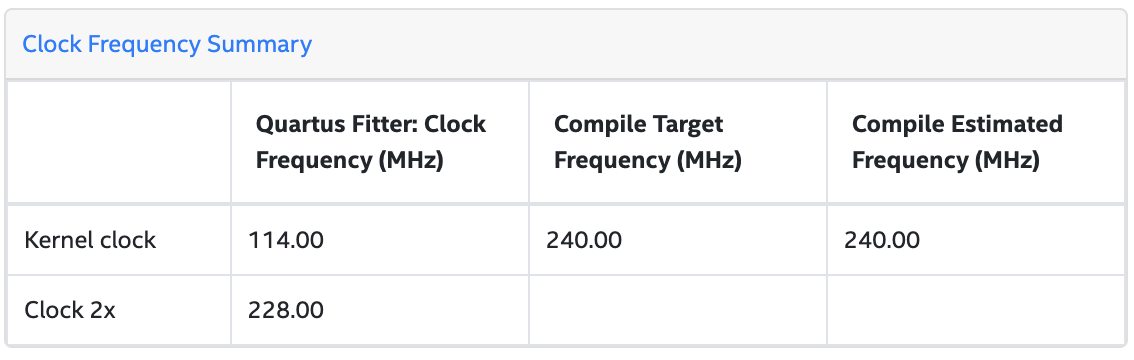
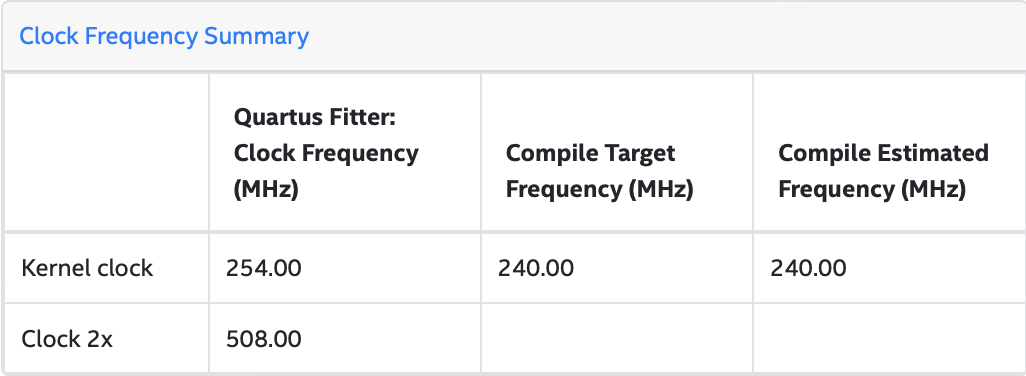
updated benchmark results of blake3 on Intel Arria 10 board, replaced on-chip BRAMs with much faster and stall-free FPGA registers

Changed region(s): [[0.0, 0.1833, 1.0, 1.0], [0.0, 0.0, 1.0, 0.0306], [0.0, 0.0611, 0.3119, 0.1528]]

diff --git a/README.md b/README.md
@@ -195,25 +195,25 @@ running on pac_a10 : Intel PAC Platform (pac_ee00000)
 
 Benchmarking BLAKE3 FPGA implementation
 
-              input size		  execution time		host-to-device tx time		device-to-host tx time
-                   1 MB		           1.127820 ms		         399.874625 us		          88.873000 us
-                   2 MB		           2.205309 ms		         669.153625 us		          84.875875 us
-                   4 MB		           4.353167 ms		           1.004857 ms		          85.069125 us
-                   8 MB		           8.643984 ms		           1.633951 ms		          76.423375 us
-                  16 MB		          17.219312 ms		           2.997660 ms		          79.418125 us
-                  32 MB		          34.367224 ms		           6.250827 ms		          85.557125 us
-                  64 MB		          68.657510 ms		          12.520800 ms		          85.347125 us
-                 128 MB		         137.233338 ms		          23.457125 ms		          89.994000 us
-                 256 MB		         274.380422 ms		          43.577968 ms		          87.475000 us
-                 512 MB		         548.669188 ms		          84.584534 ms		          86.068250 us
-                1024 MB		            1.097243 s		         167.424993 ms		          83.313750 us
+              input size                  execution time                host-to-device tx time          device-to-host tx time
+                   1 MB                  138.668875 us                   342.348125 us                    81.991625 us
+                   2 MB                  257.963375 us                   594.499625 us                    60.931750 us
+                   4 MB                  499.991375 us                   922.121750 us                    77.566750 us
+                   8 MB                  985.338250 us                     1.562302 ms                    76.989375 us
+                  16 MB                    1.961749 ms                     2.921717 ms                    76.725375 us
+                  32 MB                    3.918744 ms                     6.239170 ms                    78.779250 us
+                  64 MB                    7.818283 ms                    12.604511 ms                    87.071000 us
+                 128 MB                   15.637260 ms                    23.531873 ms                    80.121250 us
+                 256 MB                   31.254826 ms                    43.690892 ms                    75.809000 us
+                 512 MB                   62.450432 ms                    84.990691 ms                    80.160750 us
+                1024 MB                  124.960085 ms                   167.462934 ms                    89.227750 us
 ```
 
-Note, this design can benefit from replicating data path which compresses message blocks, but that comes with increased resource consumption. This (simple + straight-forward) baseline design, which interacts with global memory quite often, slows down due to high global memory access latecy.
+Note, this design can benefit from replicating data path which compresses message blocks many more number of times ( currently replication factor set to 2 ), but that comes with increased resource consumption. This primary design, which interacts with global memory quite often, slows down due to high global memory access latecy.
 
-Future efforts that can be put in improving this design is reducing interaction with global memory system and increasing usage of on-chip BRAM, while synthesizing more ( power of 2 -many ) replicas of BLAKE3 `compress( ... )` function, at cost of higher resource usage.
+Future efforts that can be put in improving this design is reducing interaction with global memory system and increasing usage of on-chip ( stall-free ) BRAM for double bufferring purposes, while synthesizing more ( power of 2 -many ) replicas of BLAKE3 `compress( ... )` function, at cost of higher resource usage.
 
-> I've also experimented with SYCL pipe based design pattern ( in BLAKE3 context ) where producer ( read orchestrator ) <-> consumer ( read compressor ) pattern is utilized, reducing global memory access; but it turns out that due to hierarchical data dependency in BLAKE3 binary merkle tree, that pattern doesn't yield much useful results and pipe ends up slowing down due to stalling in both sides.
+> I've also experimented with SYCL pipe based design pattern ( in BLAKE3 context ) where producer ( read orchestrator ) <-> consumer ( read compressor ) pattern is utilized, reducing global memory access; but it turns out that due to hierarchical data dependency in BLAKE3 binary merkle tree, that pattern doesn't yield much useful results and pipe ends up slowing down due to stalling on both ends.
 
 **👇 are taken from final report generated after FPGA h/w synthesis, targeting Intel Arria 10 board**
 
